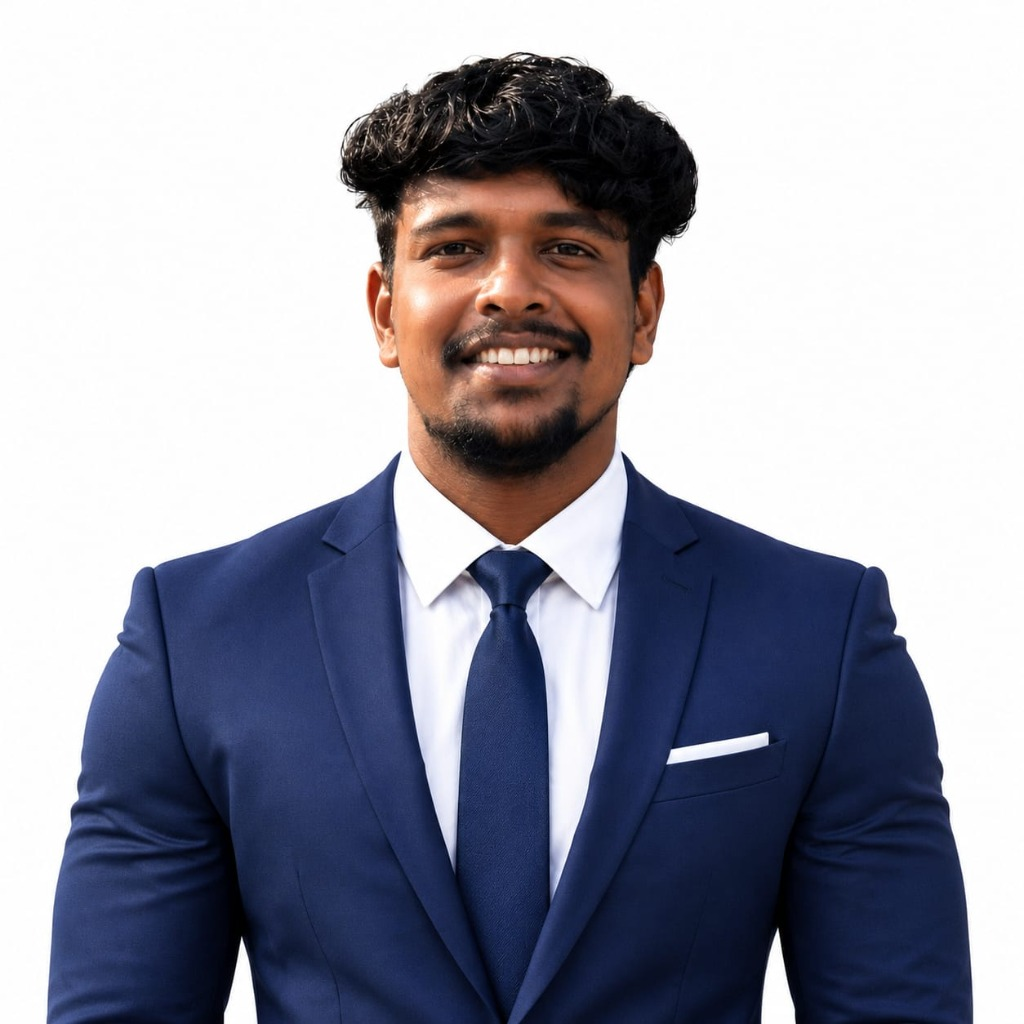
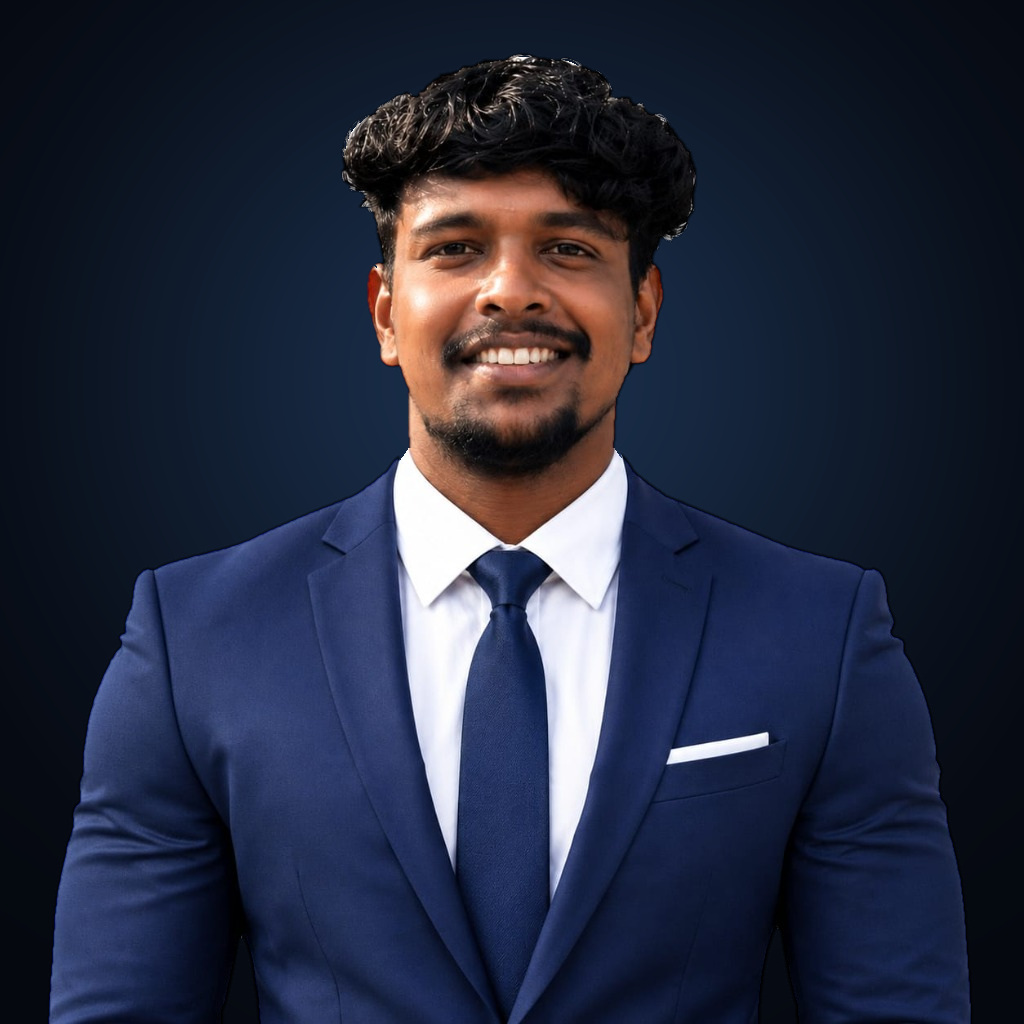
style(hero): blend portrait on dark obsidian studio backdrop, refine headline phrasing & fit hero above the fold

diff --git a/frontend/src/components/Hero.jsx b/frontend/src/components/Hero.jsx
@@ -27,13 +27,13 @@ export default function Hero({
     <section
       id="hero"
       style={{
-        minHeight: 'calc(100dvh - 80px)',
+        minHeight: 'calc(100dvh - 76px)',
         display: 'flex',
         alignItems: 'center',
         justifyContent: 'center',
         position: 'relative',
         zIndex: 10,
-        padding: 'clamp(42px, 7vh, 88px) clamp(16px, 4vw, 40px) clamp(40px, 6vh, 72px)',
+        padding: 'clamp(16px, 2.6vh, 38px) clamp(16px, 4vw, 40px) clamp(20px, 3vh, 42px)',
       }}
     >
       <div className="container-shell">
@@ -42,56 +42,59 @@ export default function Hero({
             display: 'grid',
             gridTemplateColumns: 'repeat(auto-fit, minmax(min(100%, 330px), 1fr))',
             alignItems: 'center',
-            gap: 'clamp(32px, 5vw, 72px)',
+            gap: 'clamp(24px, 4vw, 60px)',
           }}
         >
           {/* Left Column */}
           <div>
-            <div className="section-index-pill" style={{ marginBottom: '20px' }}>
+            <div className="section-index-pill" style={{ marginBottom: '12px' }}>
               <span style={{ width: '7px', height: '7px', borderRadius: '50%', background: '#10b981', boxShadow: '0 0 8px #10b981' }} />
               <span>FDE // PYTHON · DJANGO · AGENTIC AI</span>
             </div>
 
             <h1
               style={{
-                fontSize: 'clamp(2.35rem, 5vw, 4.35rem)',
+                fontSize: 'clamp(2.1rem, 4.3vw, 3.7rem)',
                 fontWeight: '800',
-                lineHeight: '1.06',
-                marginBottom: '16px',
+                lineHeight: '1.08',
+                marginBottom: '10px',
                 color: '#ffffff',
               }}
             >
-              Engineering{' '}
-              <span className="font-serif-accent" style={{ color: 'var(--cyan)', fontSize: '1.08em' }}>
-                verifiable
-              </span>
-              <br />
               <span className="gradient-text-cyan">Suryakiran P J</span>
+              <br />
+              <span style={{ fontSize: '0.62em', fontWeight: '700', color: '#f1f5f9', display: 'inline-block', marginTop: '4px' }}>
+                Engineering{' '}
+                <span className="font-serif-accent" style={{ color: 'var(--cyan)', fontSize: '1.18em' }}>
+                  verifiable
+                </span>{' '}
+                AI &amp; Django systems
+              </span>
             </h1>
 
             <p
               style={{
-                fontSize: 'clamp(1.05rem, 1.9vw, 1.3rem)',
+                fontSize: 'clamp(0.95rem, 1.5vw, 1.12rem)',
                 fontWeight: '600',
                 color: '#e2e8f0',
-                marginBottom: '14px',
-                lineHeight: '1.4',
+                marginBottom: '8px',
+                lineHeight: '1.35',
               }}
             >
               Python, Django REST Framework &amp;{' '}
-              <span style={{ color: 'var(--cyan)' }}>Schema-Grounded AI Systems</span>
+              <span style={{ color: 'var(--cyan)' }}>Schema-Grounded AI Workflows</span>
             </p>
 
             <p
               style={{
-                fontSize: '0.98rem',
+                fontSize: '0.92rem',
                 color: 'var(--text-secondary)',
-                lineHeight: '1.7',
-                maxWidth: '580px',
-                marginBottom: '22px',
+                lineHeight: '1.58',
+                maxWidth: '560px',
+                marginBottom: '14px',
               }}
             >
-              I build deterministic Django backends, reactive React interfaces, and structured Gemini AI workflows you can
+              Deterministic Django backends, reactive React interfaces, and structured Gemini AI workflows you can
               test directly inside this portfolio — no static mockups, no unverifiable buzzwords.
             </p>
 
@@ -100,8 +103,8 @@ export default function Hero({
               style={{
                 display: 'flex',
                 flexWrap: 'wrap',
-                gap: '10px',
-                marginBottom: '26px',
+                gap: '8px',
+                marginBottom: '16px',
               }}
             >
               <span className="tech-pill tech-pill-emerald">
@@ -118,14 +121,14 @@ export default function Hero({
             <div
               className="liquid-glass liquid-glass-border"
               style={{
-                borderRadius: '18px',
-                padding: '14px clamp(12px, 3vw, 18px)',
+                borderRadius: '16px',
+                padding: '10px clamp(12px, 2.5vw, 16px)',
                 display: 'flex',
                 alignItems: 'center',
                 justifyContent: 'space-between',
                 flexWrap: 'wrap',
-                gap: '12px',
-                marginBottom: '28px',
+                gap: '10px',
+                marginBottom: '16px',
               }}
             >
               <div style={{ display: 'flex', alignItems: 'center', gap: '12px' }}>
@@ -213,7 +216,7 @@ export default function Hero({
             </div>
 
             {/* Public Action Buttons */}
-            <div className="hero-buttons" style={{ display: 'flex', flexWrap: 'wrap', gap: '14px', marginBottom: '32px' }}>
+            <div className="hero-buttons" style={{ display: 'flex', flexWrap: 'wrap', gap: '10px', marginBottom: '18px' }}>
               <a href="#projects" className="btn-primary">
                 <span>Try Live Project Sandboxes</span>
                 <ArrowRight size={17} />
@@ -231,8 +234,8 @@ export default function Hero({
             </div>
 
             {/* Socials */}
-            <div style={{ display: 'flex', alignItems: 'center', gap: '14px' }}>
-              <span style={{ fontSize: '0.84rem', color: 'var(--text-muted)', fontWeight: '500' }}>Channels:</span>
+            <div style={{ display: 'flex', alignItems: 'center', gap: '12px' }}>
+              <span style={{ fontSize: '0.82rem', color: 'var(--text-muted)', fontWeight: '500' }}>Channels:</span>
               <a href="https://github.com/skiran-ai" target="_blank" rel="noreferrer" title="GitHub Profile (@skiran-ai)" className="hero-social-btn">
                 <GithubIcon size={18} />
               </a>
@@ -249,15 +252,15 @@ export default function Hero({
           </div>
 
           {/* Right Column */}
-          <div style={{ display: 'flex', flexDirection: 'column', alignItems: 'center', gap: '20px', position: 'relative' }}>
+          <div style={{ display: 'flex', flexDirection: 'column', alignItems: 'center', gap: '14px', position: 'relative' }}>
             <div
               onMouseMove={handlePhotoMouseMove}
               onMouseLeave={handlePhotoMouseLeave}
               style={{
                 position: 'relative',
                 width: '100%',
-                maxWidth: 'clamp(280px, 28vw, 370px)',
-                height: 'clamp(320px, 34vw, 430px)',
+                maxWidth: 'clamp(250px, 25vw, 340px)',
+                height: 'clamp(255px, 39vh, 360px)',
                 perspective: '1000px',
               }}
             >
@@ -266,11 +269,11 @@ export default function Hero({
                   position: 'relative',
                   width: '100%',
                   height: '100%',
-                  borderRadius: '24px',
+                  borderRadius: '22px',
                   overflow: 'hidden',
-                  background: 'linear-gradient(180deg, rgba(15, 23, 42, 0.9) 0%, rgba(7, 9, 14, 0.95) 100%)',
-                  border: '1.5px solid rgba(0, 242, 254, 0.35)',
-                  boxShadow: '0 25px 50px -12px rgba(0, 0, 0, 0.7)',
+                  background: '#070b14',
+                  border: '1.5px solid rgba(34, 211, 238, 0.34)',
+                  boxShadow: '0 24px 48px -12px rgba(0, 0, 0, 0.78), 0 0 36px rgba(34, 211, 238, 0.08)',
                   transform: `rotateY(${photoTilt.x}deg) rotateX(${photoTilt.y}deg)`,
                   transition: 'transform 0.15s ease-out',
                 }}
@@ -278,31 +281,31 @@ export default function Hero({
                 <img
                   src="/suryakiran.jpg"
                   alt="Suryakiran P J"
-                  style={{ width: '100%', height: '100%', objectFit: 'cover', objectPosition: 'center top' }}
+                  style={{ width: '100%', height: '100%', objectFit: 'cover', objectPosition: 'center 15%' }}
                 />
 
                 <div
                   className="liquid-glass"
                   style={{
                     position: 'absolute',
-                    bottom: '14px',
-                    left: '14px',
-                    right: '14px',
-                    padding: '12px 14px',
-                    borderRadius: '14px',
+                    bottom: '12px',
+                    left: '12px',
+                    right: '12px',
+                    padding: '10px 14px',
+                    borderRadius: '13px',
                     display: 'flex',
                     alignItems: 'center',
                     justifyContent: 'space-between',
-                    border: '1px solid rgba(0, 242, 254, 0.3)',
+                    border: '1px solid rgba(34, 211, 238, 0.28)',
                   }}
                 >
                   <div>
-                    <div style={{ fontSize: '0.88rem', fontWeight: '700', color: '#fff' }}>Suryakiran P J</div>
-                    <div style={{ fontSize: '0.72rem', color: 'var(--cyan)' }}>Python • Django • AI Systems</div>
+                    <div style={{ fontSize: '0.86rem', fontWeight: '700', color: '#fff' }}>Suryakiran P J</div>
+                    <div style={{ fontSize: '0.7rem', color: 'var(--cyan)' }}>Python • Django • AI Systems</div>
                   </div>
                   <div style={{ display: 'flex', alignItems: 'center', gap: '6px' }}>
                     <span style={{ width: '7px', height: '7px', borderRadius: '50%', background: '#10b981' }} />
-                    <span style={{ fontSize: '0.72rem', color: '#10b981', fontWeight: '600' }}>Open to Work</span>
+                    <span style={{ fontSize: '0.7rem', color: '#10b981', fontWeight: '600' }}>Open to Work</span>
                   </div>
                 </div>
               </div>
@@ -312,28 +315,28 @@ export default function Hero({
               className="liquid-glass liquid-glass-border"
               style={{
                 width: '100%',
-                maxWidth: 'clamp(280px, 28vw, 370px)',
-                borderRadius: '20px',
-                padding: '12px 16px',
+                maxWidth: 'clamp(250px, 25vw, 340px)',
+                borderRadius: '18px',
+                padding: '10px 14px',
                 display: 'flex',
                 alignItems: 'center',
                 justifyContent: 'space-between',
-                gap: '12px',
+                gap: '10px',
               }}
             >
               <div style={{ flex: 1, minWidth: 0 }}>
-                <div className="font-mono-tag" style={{ fontSize: '0.68rem', color: 'var(--cyan)', fontWeight: '700' }}>
+                <div className="font-mono-tag" style={{ fontSize: '0.66rem', color: 'var(--cyan)', fontWeight: '700' }}>
                   BACKEND &amp; AI RUNTIME
                 </div>
-                <div style={{ fontSize: '0.95rem', fontWeight: '800', color: '#fff', margin: '3px 0' }}>
+                <div style={{ fontSize: '0.92rem', fontWeight: '800', color: '#fff', margin: '2px 0' }}>
                   Python 3 + Django
                 </div>
-                <div style={{ fontSize: '0.75rem', color: 'var(--text-secondary)', lineHeight: '1.4' }}>
+                <div style={{ fontSize: '0.73rem', color: 'var(--text-secondary)', lineHeight: '1.35' }}>
                   DRF APIs, Deterministic Engines &amp; Gemini Agents
                 </div>
               </div>
 
-              <div style={{ width: 'clamp(88px, 22vw, 114px)', height: 'clamp(88px, 22vw, 114px)', flexShrink: 0 }}>
+              <div style={{ width: 'clamp(72px, 16vw, 88px)', height: 'clamp(72px, 16vw, 88px)', flexShrink: 0 }}>
                 <Python3DLogo />
               </div>
             </div>
@@ -341,7 +344,7 @@ export default function Hero({
         </div>
 
         {/* Scroll Cue */}
-        <div style={{ marginTop: '48px', display: 'flex', justifyContent: 'center' }}>
+        <div style={{ marginTop: 'clamp(16px, 2.5vh, 32px)', display: 'flex', justifyContent: 'center' }}>
           <a
             href="#about"
             style={{
